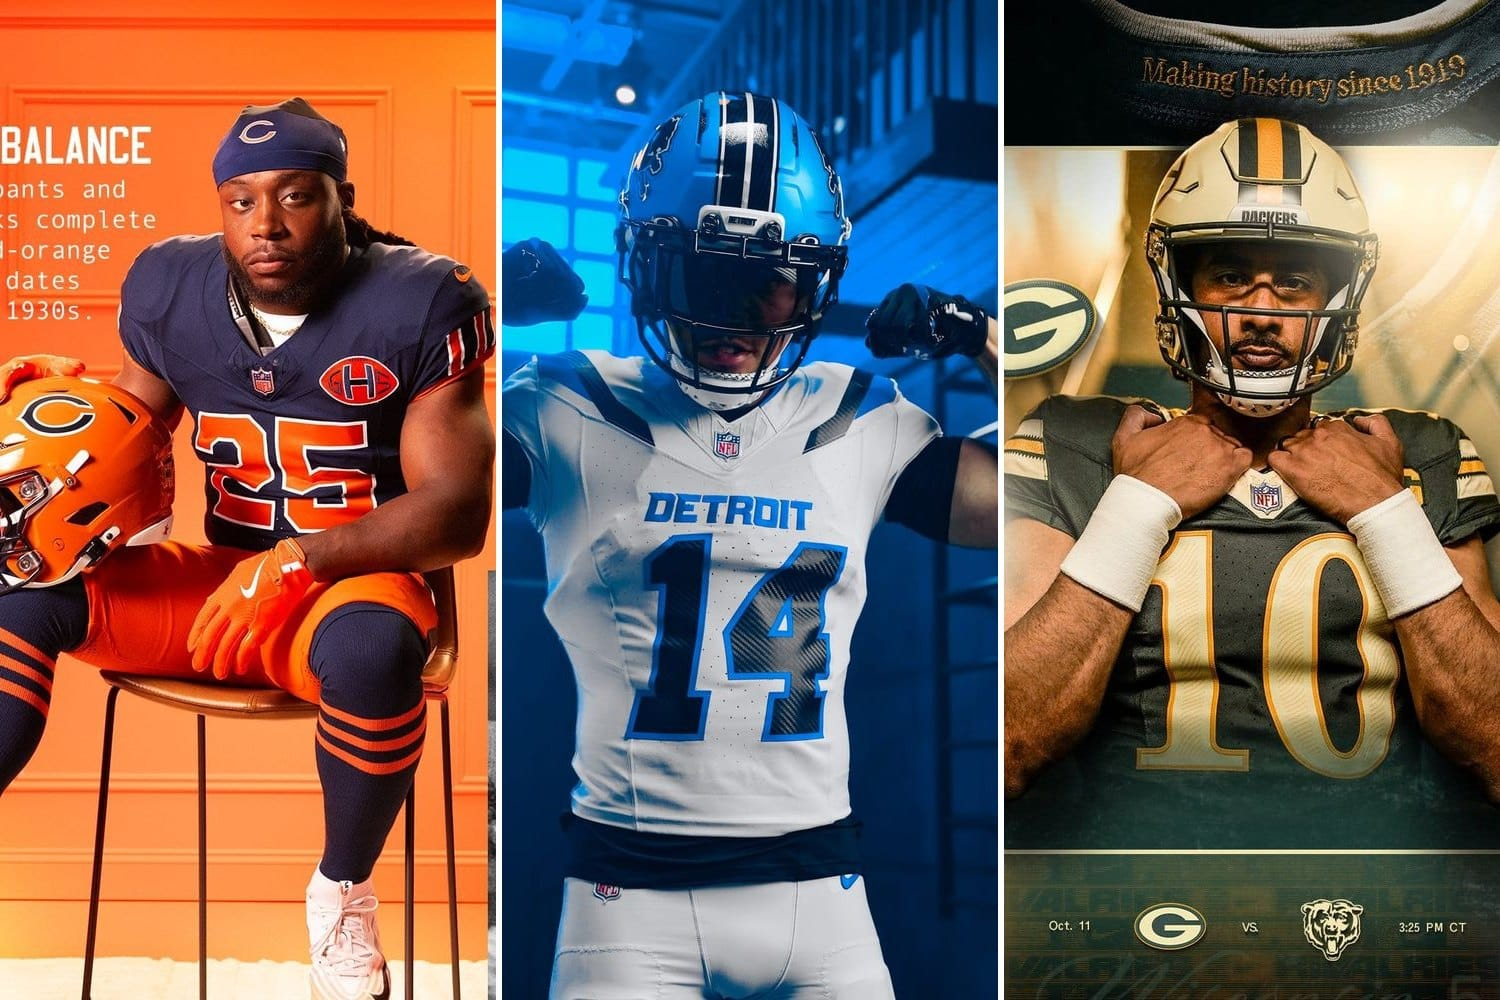
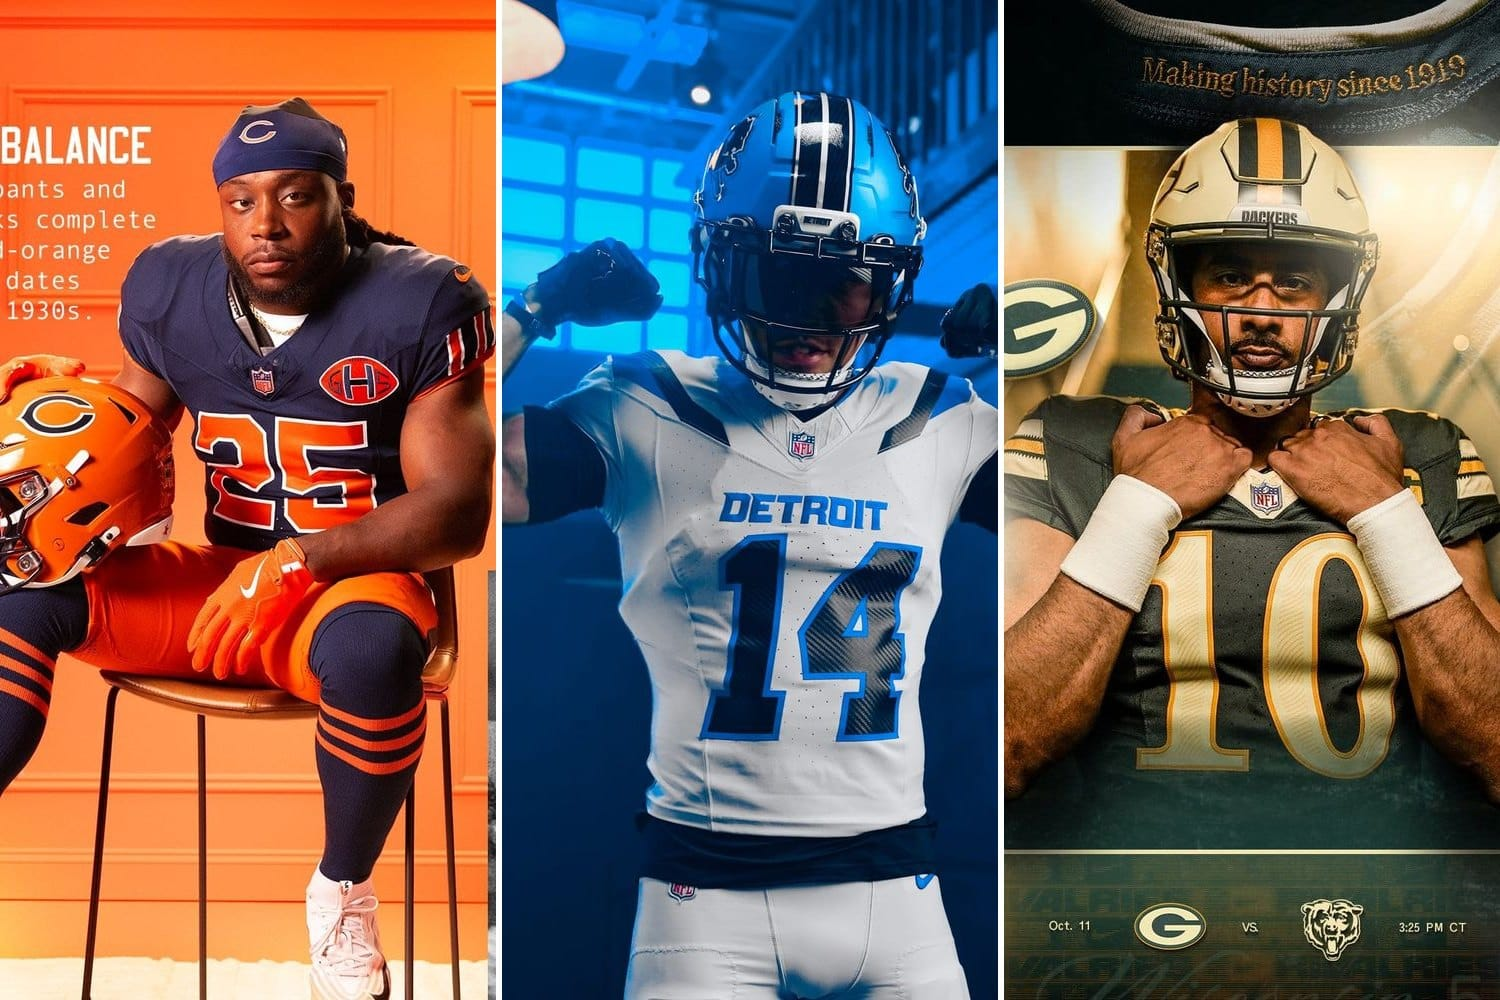
Rivalries hero: anchor the cover to the top so the heads stay in frame, Bears tile recentered

Changed region(s): [[0.3067, 0.0, 0.6747, 1.0]]

diff --git a/content/posts/nfl-rivalries-uniforms-2026-ranked.md b/content/posts/nfl-rivalries-uniforms-2026-ranked.md
@@ -6,7 +6,7 @@ updatedDate: "2026-09-02"
 excerpt: "All 16 NFL Rivalries uniforms ranked and graded, the 2025 class and the 2026 class together. Four of them failed, one is the best alternate in the league, and the gap is enormous."
 gradient: "linear-gradient(135deg, #0B162A 0%, #006778 55%, #C83803 130%)"
 coverImage: "/images/posts/nfl-rivalries-uniforms-2026-ranked/cover-v5.jpg"
-coverImagePosition: "center center"
+coverImagePosition: "center top"
 coverImageFit: "cover"
 homepageHero: true
 kicker: Ranked
